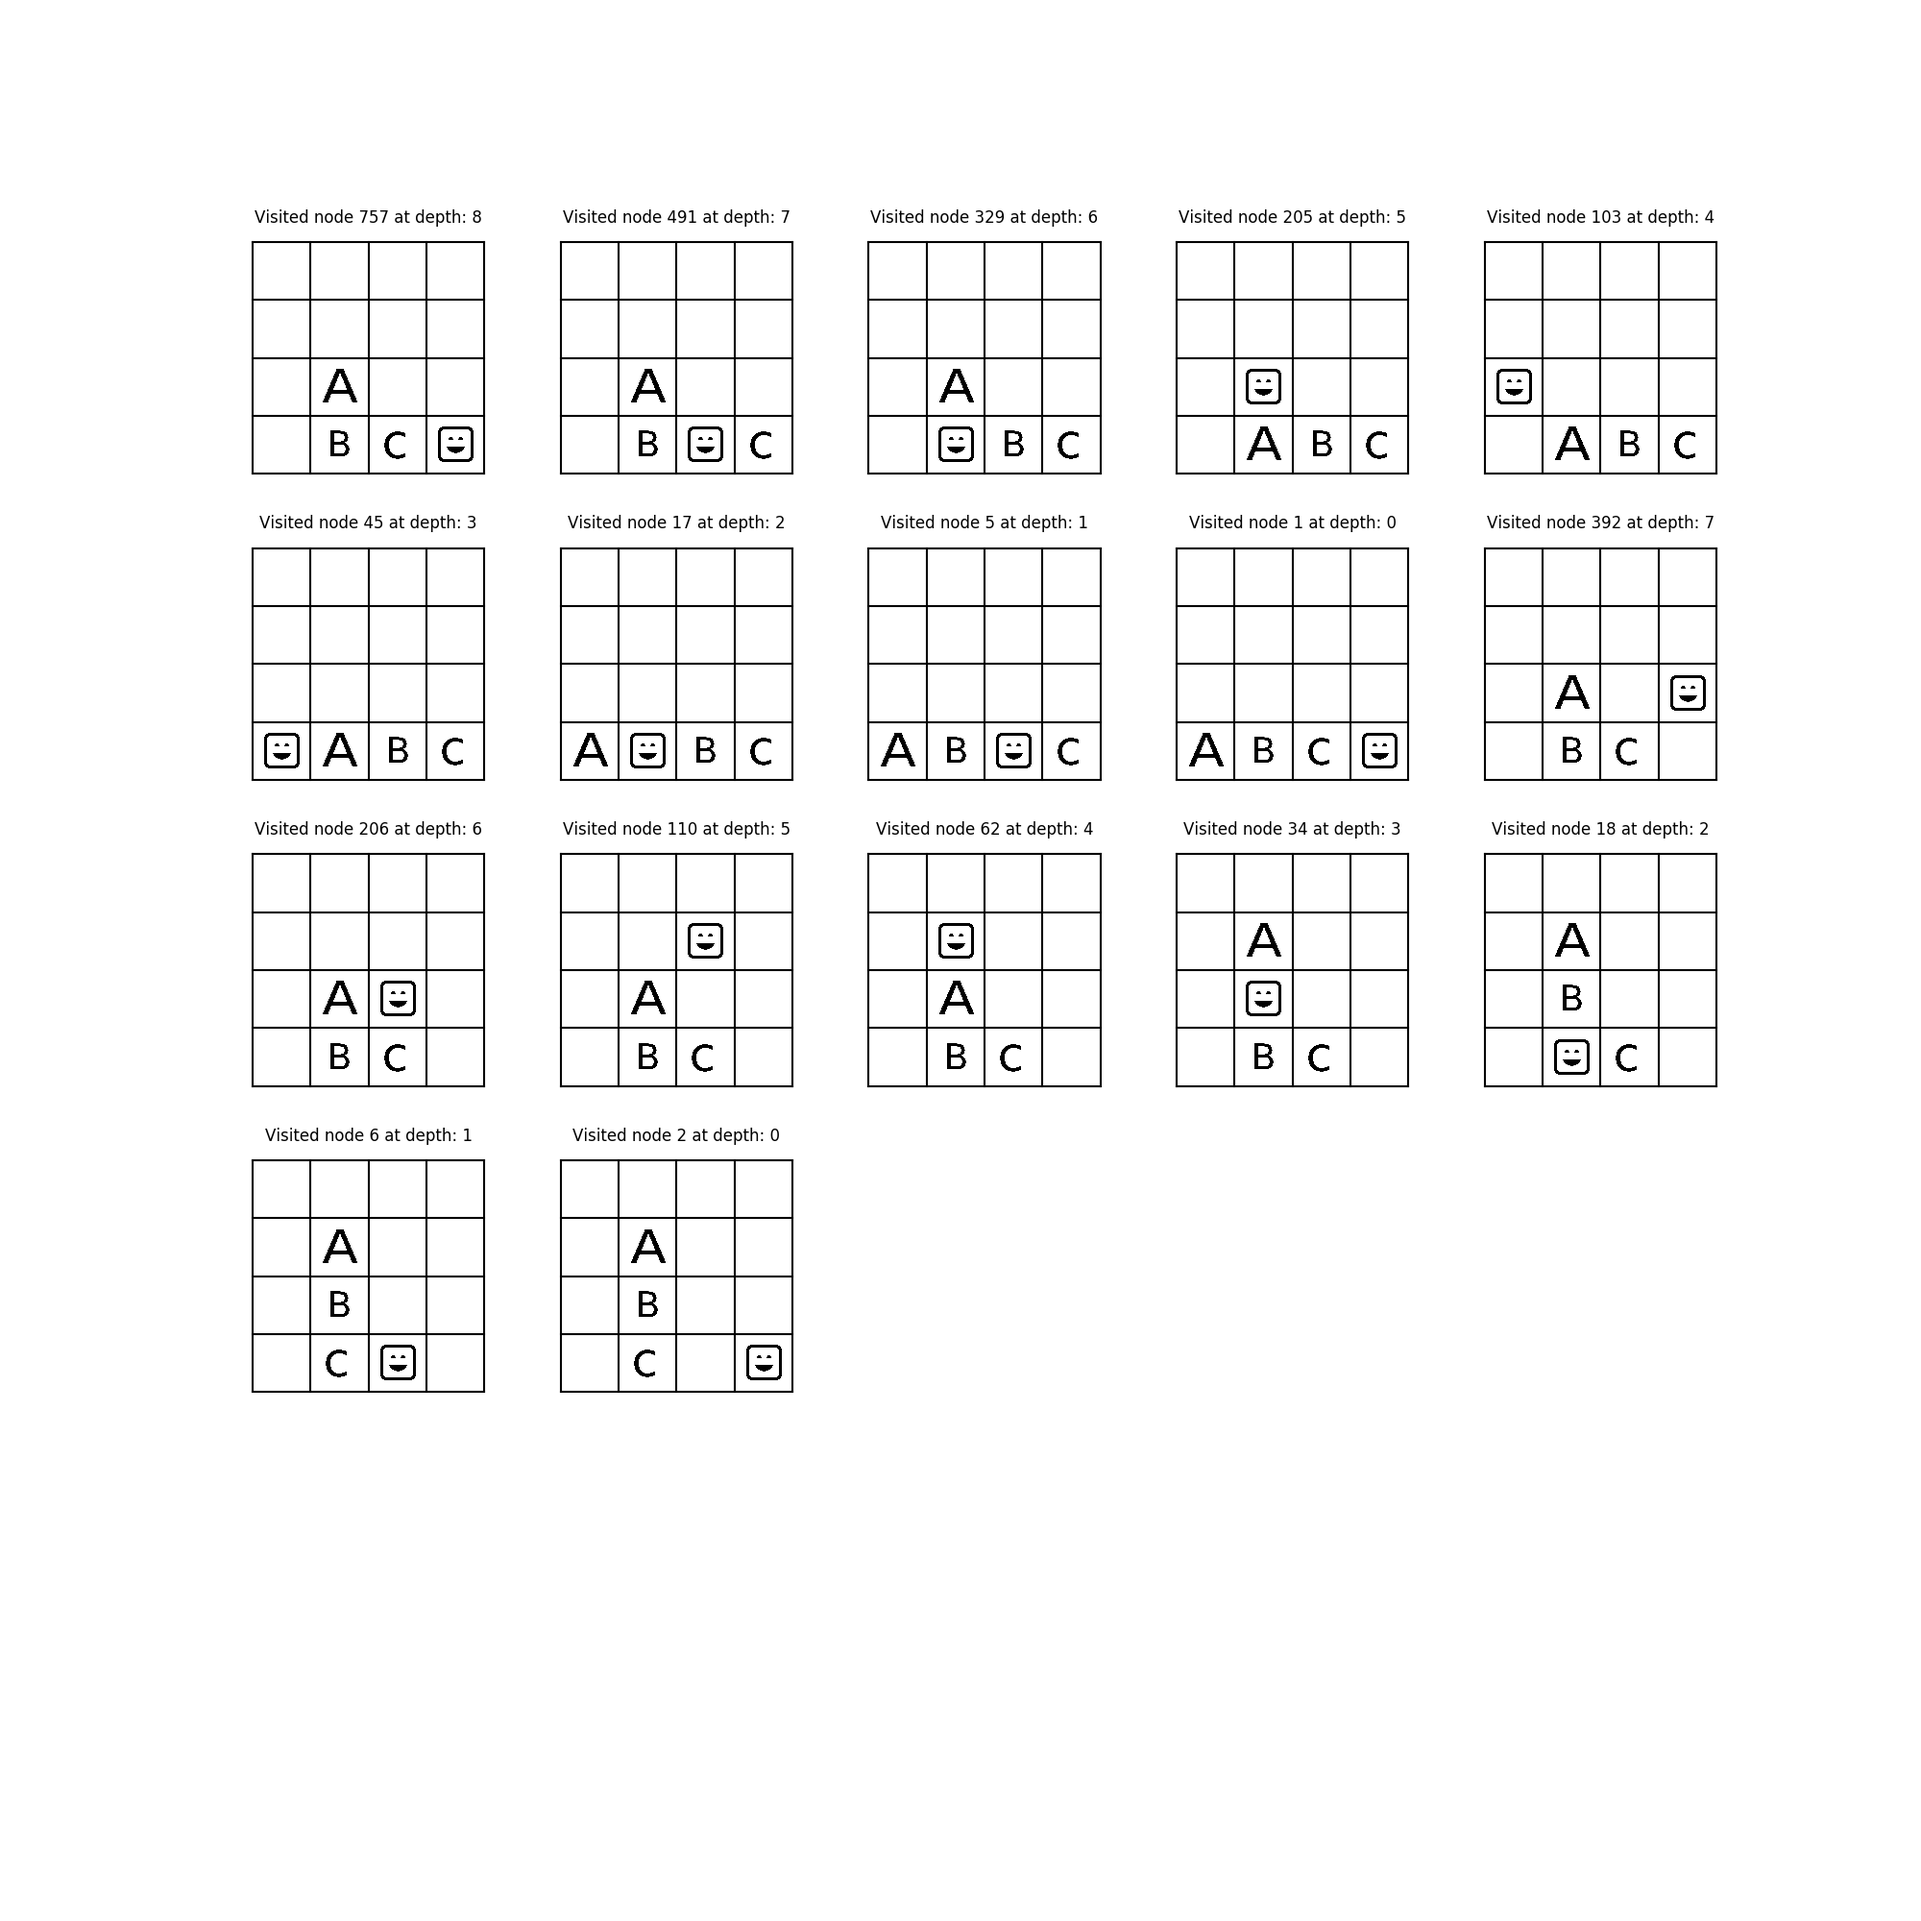
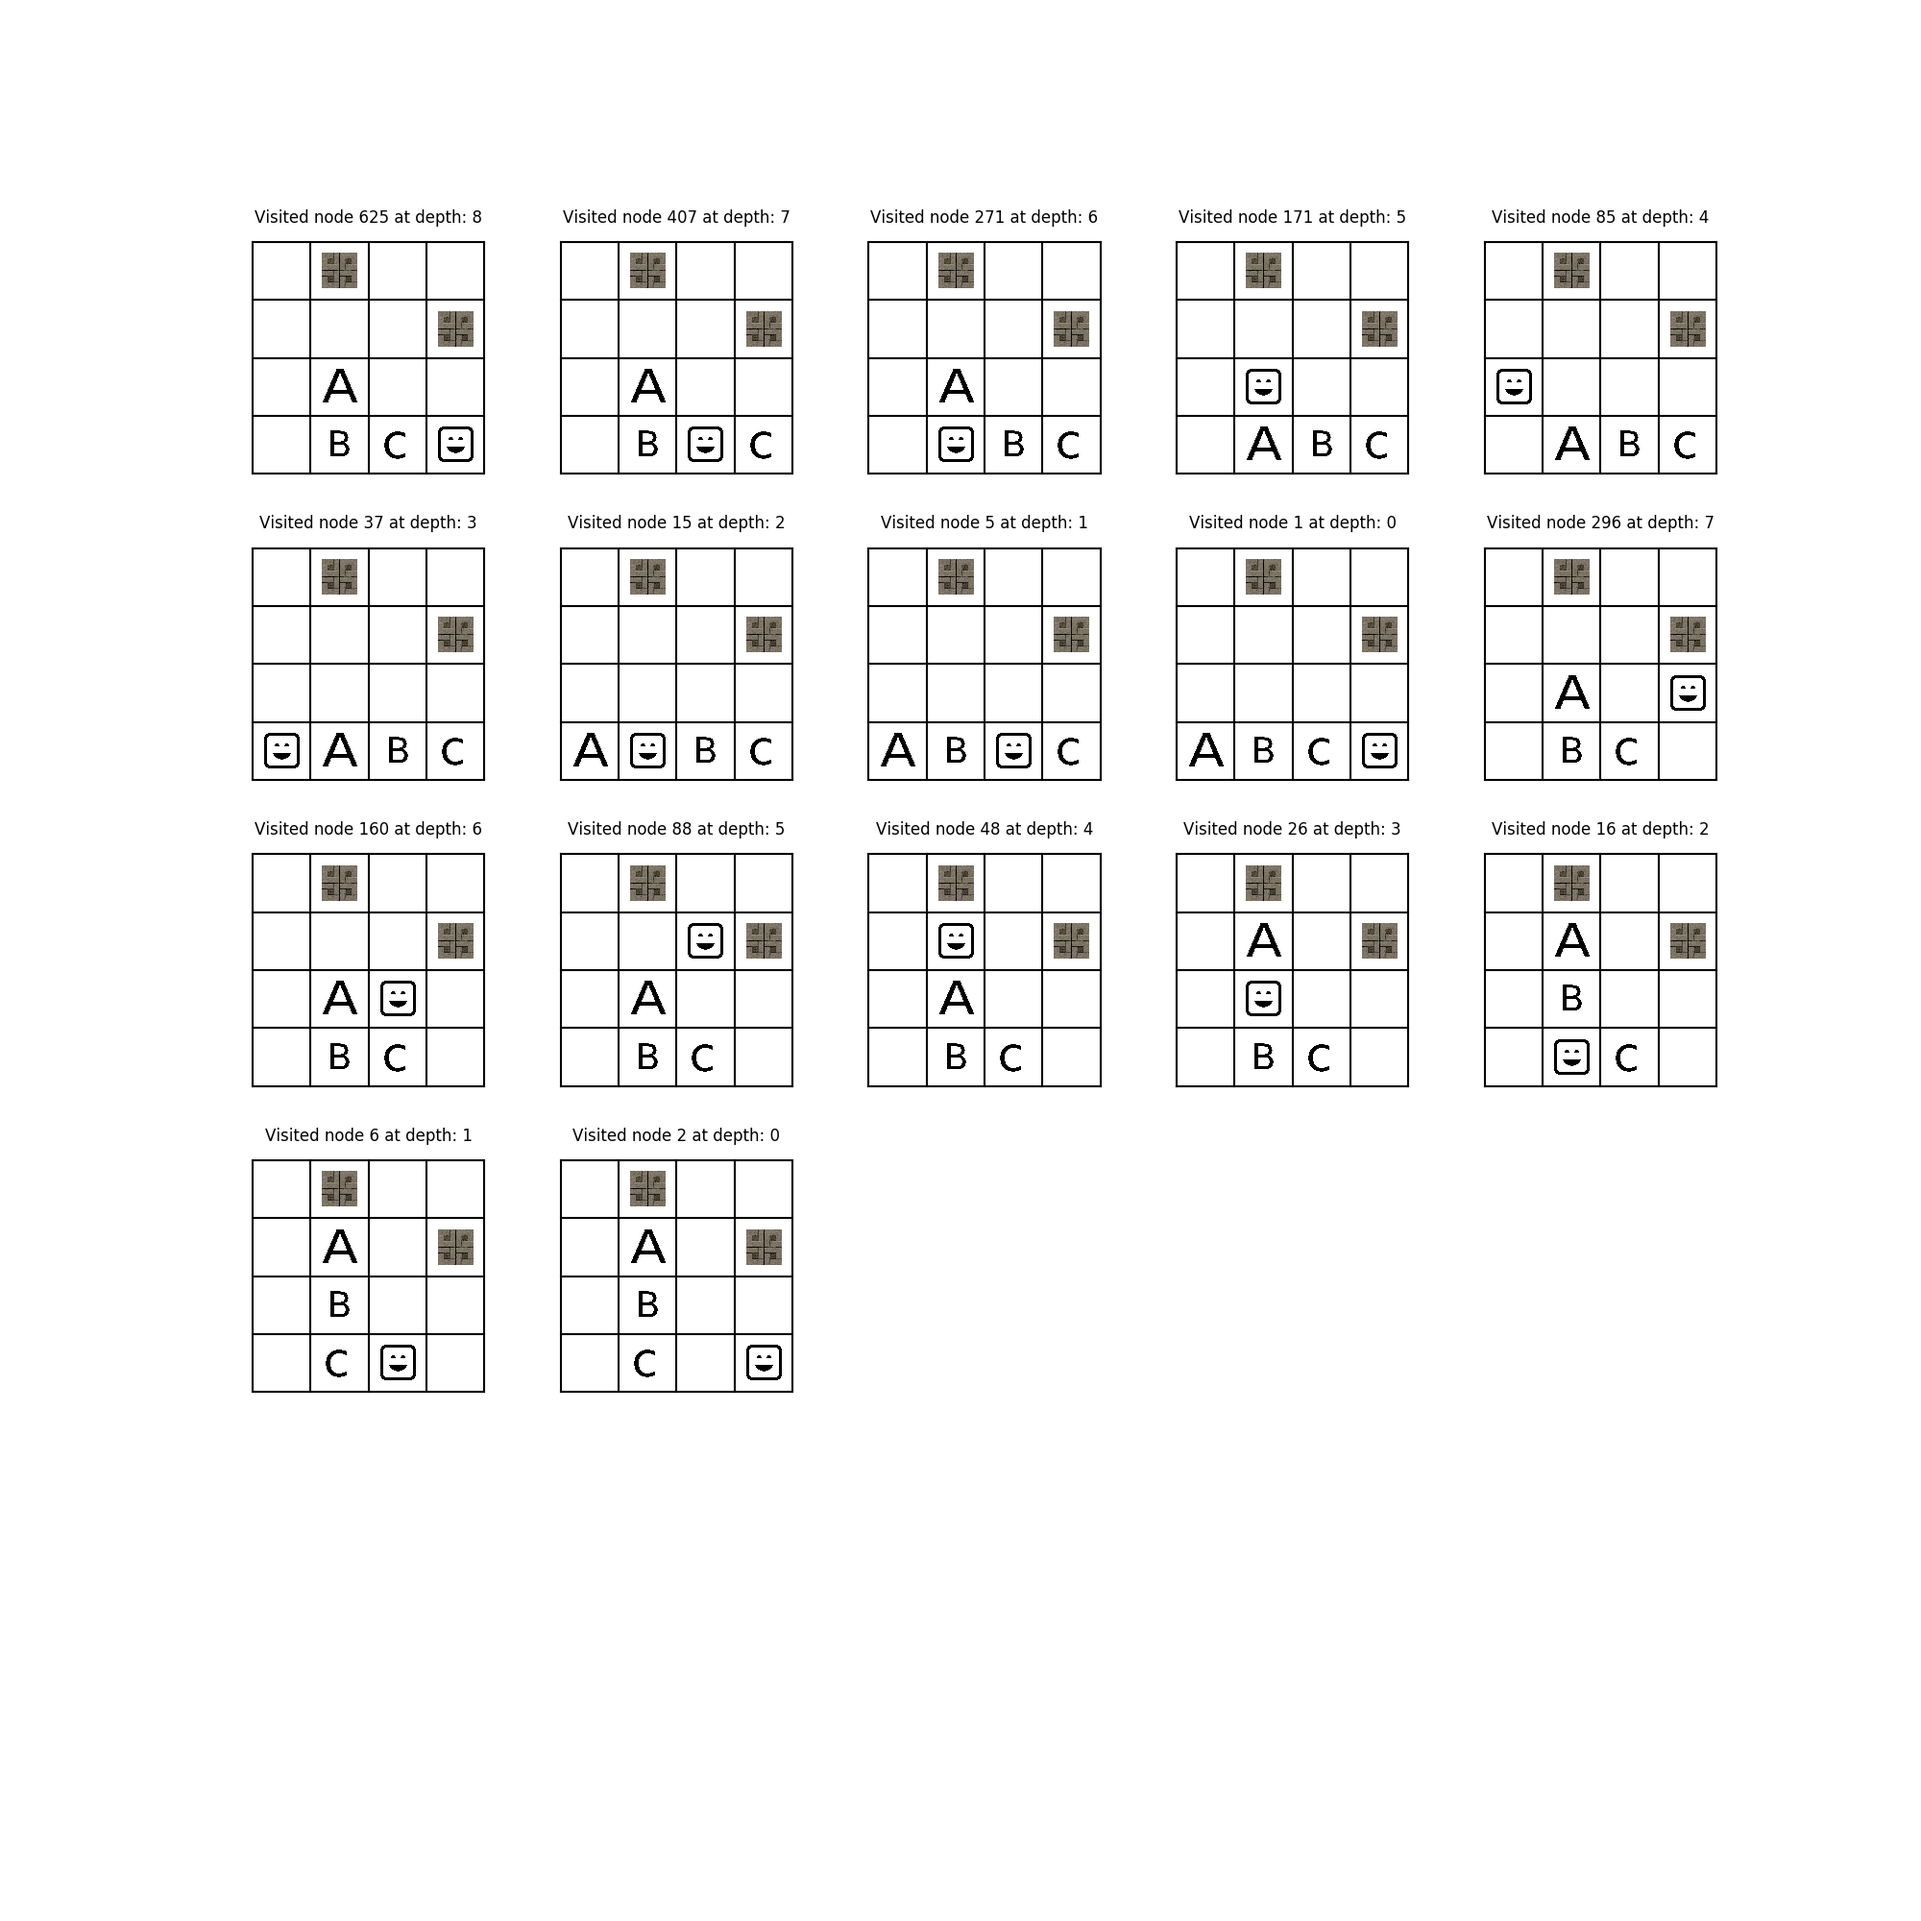
added obstacles

diff --git a/node.py b/node.py
@@ -53,6 +53,9 @@ class Node:
 			board = self.board.copy()
 
 			old_value = board[new_y_position * 4 + new_x_position] #check the value before change
+
+			if(old_value == 'O'): #obstacle, cannot pass
+				continue
 			board[current_y_position * 4 + current_x_position] = old_value
 			board[new_y_position * 4 + new_x_position] = 1
 
@@ -138,6 +141,7 @@ class Node:
 			ax.plot([0, 4], [y,y], 'k')
 		
 		agent = plt.imread('Images/agent.png')
+		obstacle = plt.imread('Images/block.jpg')
 		A = plt.imread('Images/A_letter.png')
 		B = plt.imread('Images/B_letter.png')
 		C = plt.imread('Images/C_letter.png')
@@ -153,6 +157,8 @@ class Node:
 				ax.imshow(B, extent=extent + [x_coord, x_coord, y_coord, y_coord])
 			elif(self.board[i] == 'C'):
 				ax.imshow(C, extent=extent + [x_coord, x_coord, y_coord, y_coord])
+			elif(self.board[i] == 'O'):
+				ax.imshow(obstacle, extent=extent + [x_coord, x_coord, y_coord, y_coord])
 			elif(self.board[i] == 1):
 				ax.imshow(agent, extent=extent + [x_coord, x_coord, y_coord, y_coord])
 	

diff --git a/main.py b/main.py
@@ -4,8 +4,8 @@ import methods
 import sys
 
 #use oned list instead of matrix to optimize space
-initial_state = [0,0,0,0,0,0,0,0,0,0,0,0,'A','B','C',1] #1 represents the agent
-goal_state = [0,0,0,0,0,'A',0,0,0,'B',0,0,0,'C',0,1] #Agent position doesnt matter
+initial_state = [0,'O',0,0,0,0,0,'O',0,0,0,0,'A','B','C',1] #1 represents the agent
+goal_state = [0,'O',0,0,0,'A',0,'O',0,'B',0,0,0,'C',0,1] #Agent position doesnt matter
 
 def find_agent():
 	start_agent = [None]*2
